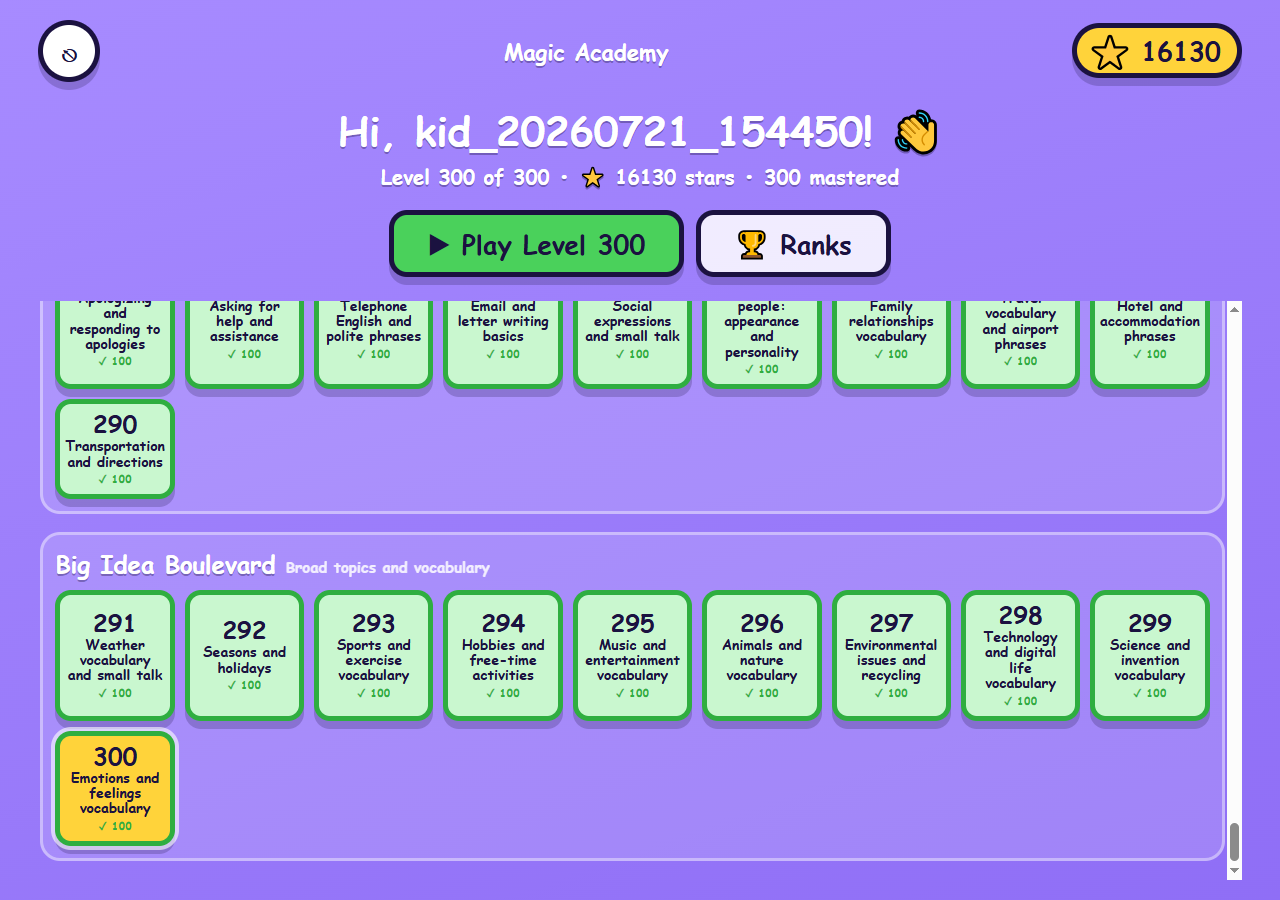
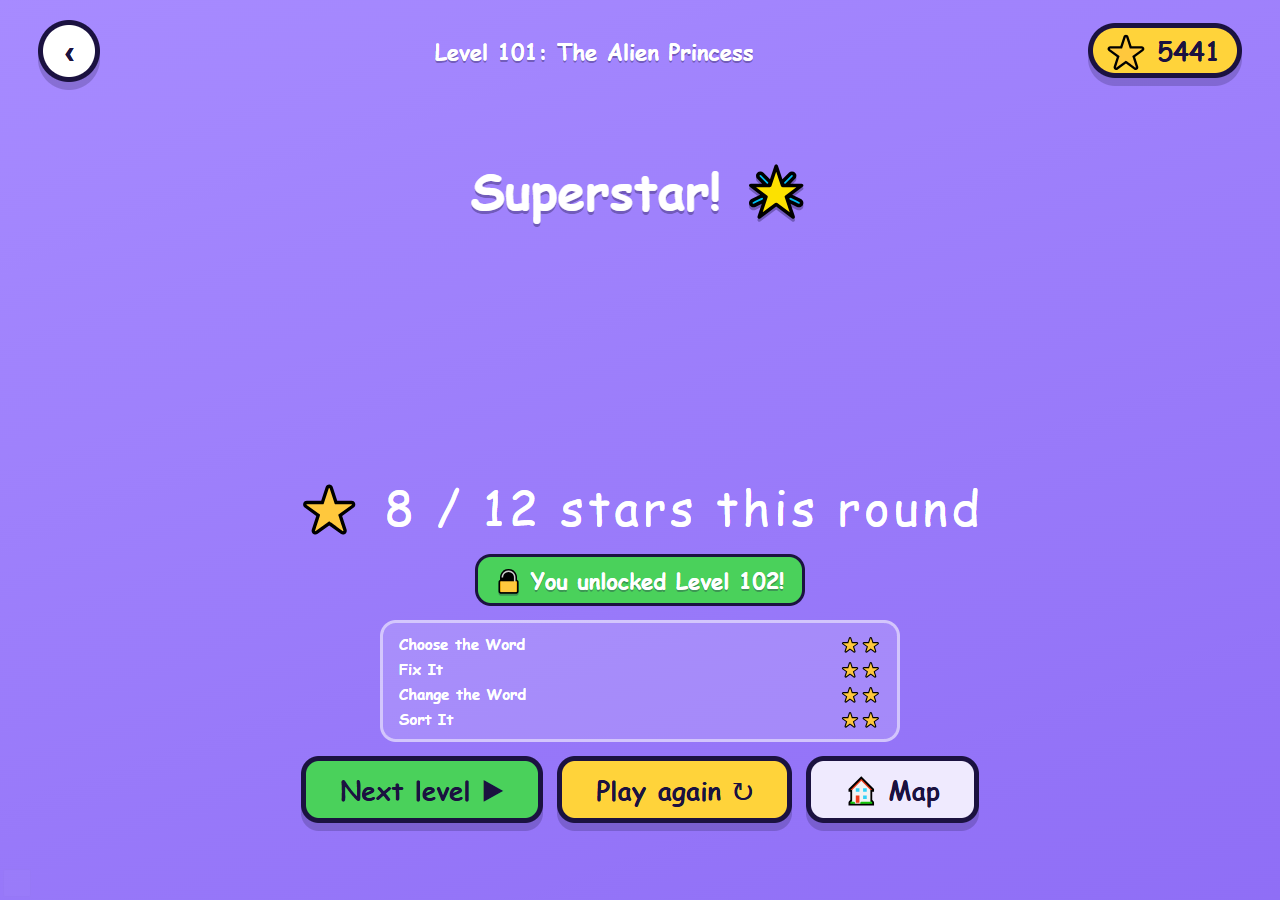
h

diff --git a/data.js b/data.js
@@ -1083,10 +1083,10 @@ window.GAME_DATA = {
           "color": "#FFE0D5"
         },
         {
-          "word": "teddy",
+          "word": "teddy bear",
           "emoji": "🧸",
-          "slug": "teddy",
-          "image": "images/teddy.svg",
+          "slug": "teddy-bear",
+          "image": "images/teddy-bear.svg",
           "color": "#FFE0D5"
         },
         {
@@ -1122,9 +1122,9 @@ window.GAME_DATA = {
         "This is a ball.",
         "I like the ball.",
         "I can see the ball.",
-        "This is a teddy.",
-        "I like the teddy.",
-        "I can see the teddy.",
+        "This is teddy bear.",
+        "I like teddy bear.",
+        "Can you see teddy bear?",
         "This is a doll.",
         "I like the doll.",
         "I can see the doll.",
@@ -1144,7 +1144,7 @@ window.GAME_DATA = {
           1,
           2
         ],
-        "teddy": [
+        "teddy bear": [
           3,
           4,
           5

diff --git a/build_assets.py b/build_assets.py
@@ -559,7 +559,7 @@ WORLDS = [
         ("Farm Animals", [("cow", "🐮"), ("pig", "🐷"), ("horse", "🐴"), ("sheep", "🐑"), ("duck", "🦆"), ("hen", "🐔")]),
         ("My Body", [("hand", "✋"), ("eye", "👁️"), ("nose", "👃"), ("ear", "👂"), ("mouth", "👄"), ("foot", "🦶")]),
         ("Fruit", [("apple", "🍎"), ("banana", "🍌"), ("orange", "🍊"), ("grapes", "🍇"), ("strawberry", "🍓"), ("watermelon", "🍉")]),
-        ("Toys", [("ball", "⚽"), ("teddy", "🧸"), ("doll", "🪆"), ("car", "🚗"), ("kite", "🪁"), ("blocks", "🧱")]),
+        ("Toys", [("ball", "⚽"), ("teddy bear", "🧸"), ("doll", "🪆"), ("car", "🚗"), ("kite", "🪁"), ("blocks", "🧱")]),
         ("Family", [("mom", "👩"), ("dad", "👨"), ("baby", "👶"), ("brother", "👦"), ("sister", "👧"), ("grandma", "👵"), ("grandpa", "👴")]),
         ("Faces", [("smile", "😊"), ("cry", "😭"), ("laugh", "😂"), ("wink", "😉"), ("yawn", "🥱"), ("angry", "😠")]),
         ("Snacks", [("cookie", "🍪"), ("candy", "🍬"), ("popcorn", "🍿"), ("lollipop", "🍭"), ("chocolate", "🍫"), ("cupcake", "🧁")]),